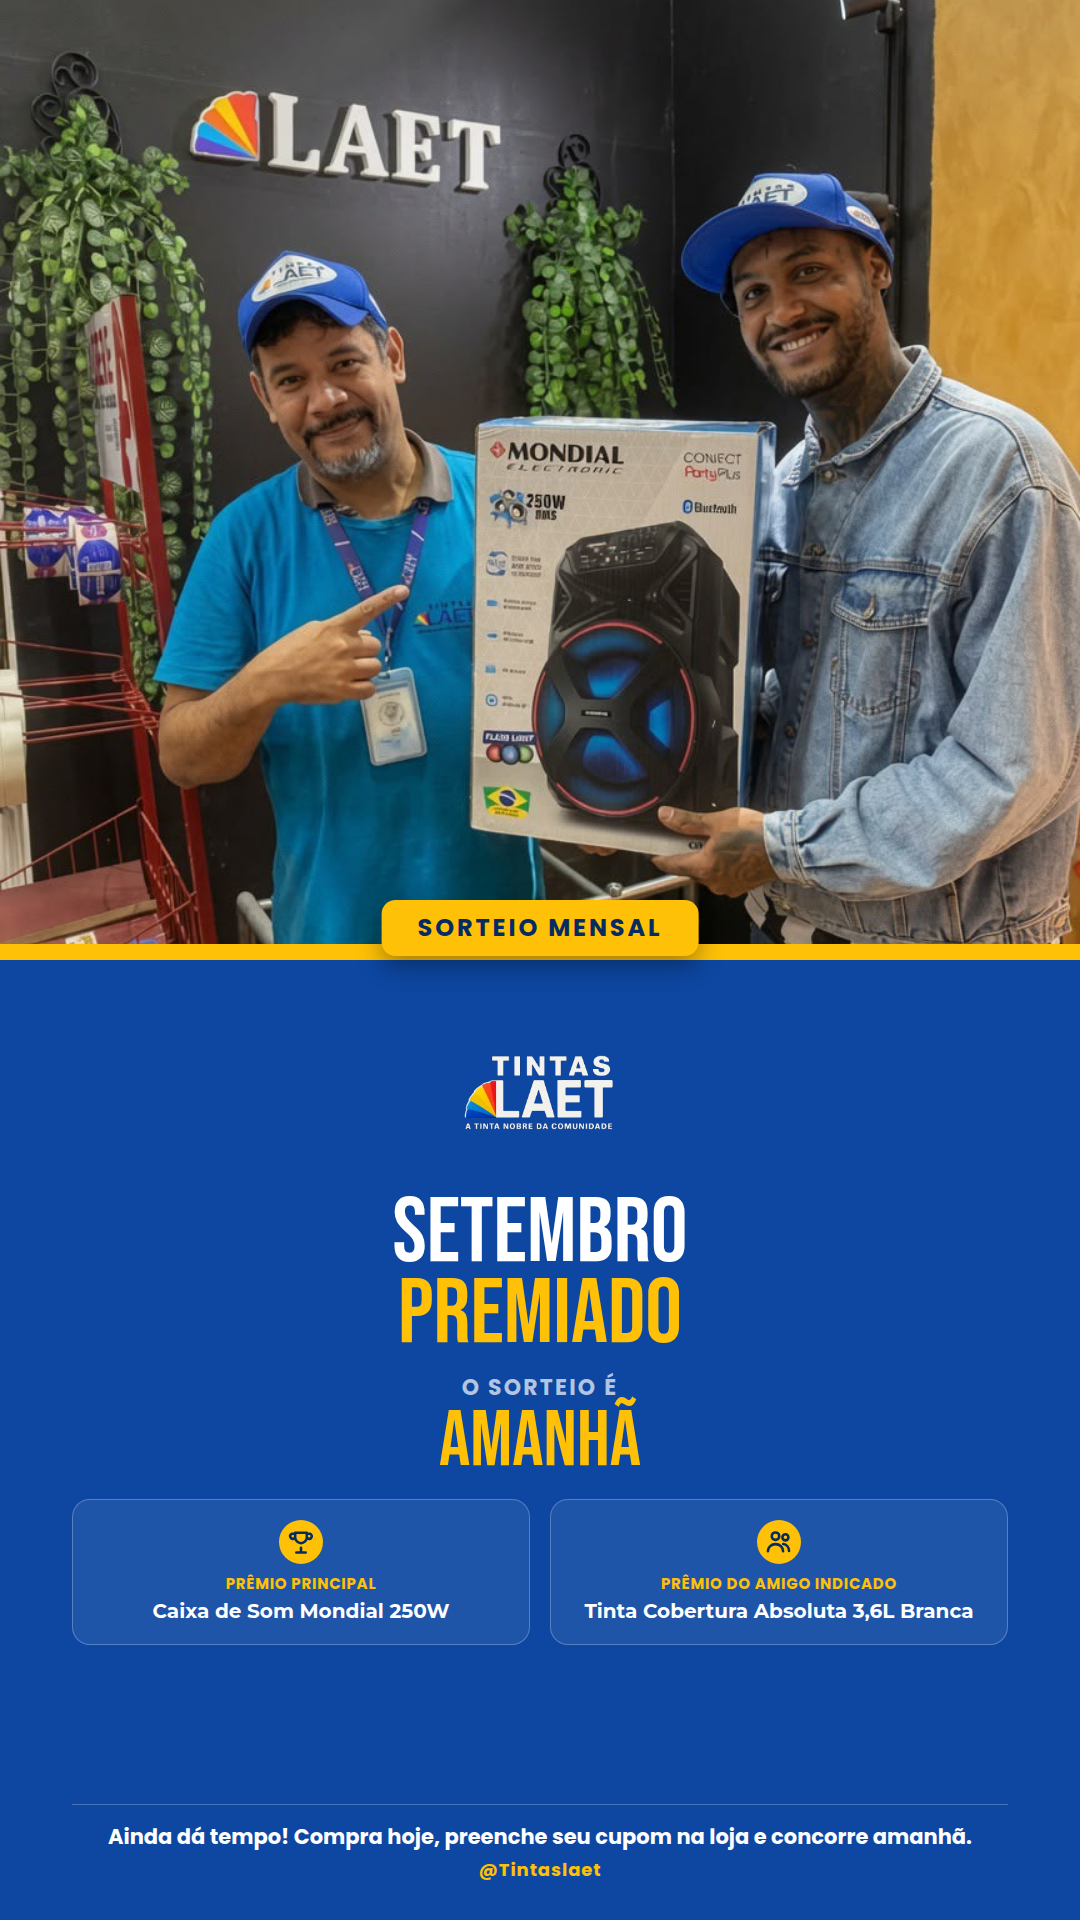
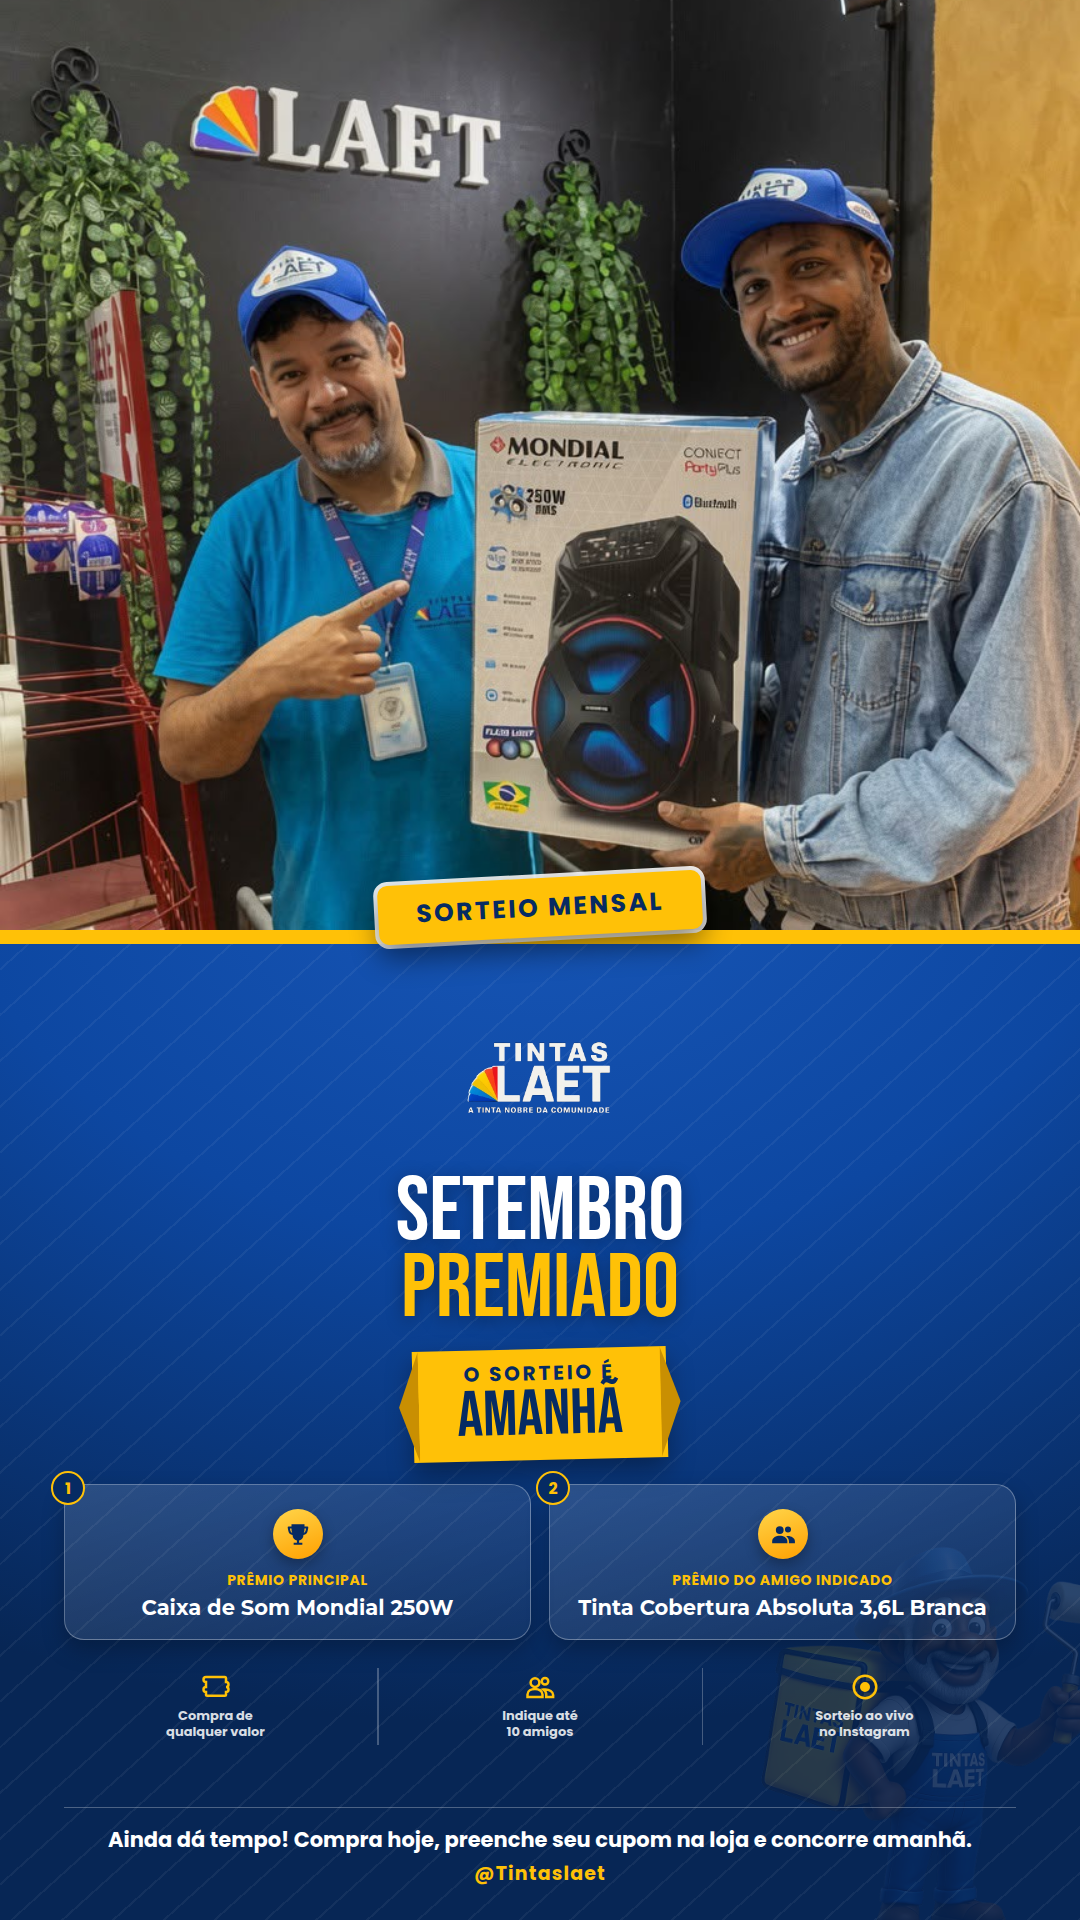
Story "Setembro Premiado": redesign com mais peso visual
Kevin ainda achou vazio e "com cara de html". Adiciona os
recursos que faltavam pra parecer peça de agência: gradiente
radial + textura diagonal sutil no painel (em vez de cor chapada),
fita de urgência recortada pro "sorteio é amanhã", cards de prêmio
numerados com ícone em gradiente e sombra, mascote de fundo bem sutil
pra dar identidade sem competir com o texto, e uma barra de 3 fatos
reais do sorteio (compra de qualquer valor / indique até 10 amigos /
sorteio ao vivo no Instagram — todos do dossiê oficial) preenchendo
o rodapé com informação de verdade em vez de espaço em branco.

Claude-Session: https://claude.ai/code/session_01SY9PCVFHwTAXLNRiFEi1A7

diff --git a/marketing/stories/2026-09/30-setembro-premiado-amanha/story.html b/marketing/stories/2026-09/30-setembro-premiado-amanha/story.html
@@ -16,41 +16,68 @@ body {
 
 .slide { width:1080px; height:1920px; position:relative; overflow:hidden; flex-shrink:0; background:#0D47A1; }
 
-/* Metade de cima: foto inteira (ganhador + balconista), sem corte nem
-   texto por cima — o quadro 1080x960 é quase quadrado, então um cover
-   simples preserva os dois lados da foto e só apara topo/base. */
-.foto-topo { position:absolute; top:0; left:0; right:0; height:960px; overflow:hidden; }
+/* Metade de cima: foto inteira, sem corte nem texto por cima. */
+.foto-topo { position:absolute; top:0; left:0; right:0; height:944px; overflow:hidden; }
 .foto-topo img { width:100%; height:100%; object-fit:cover; object-position:center 32%; display:block; }
 
-/* Costura entre a foto e o painel — faixa dourada + selo, não um corte
-   reto seco (mesma lógica de "nunca ficar plano demais" do design-guide). */
-.costura { position:absolute; top:944px; left:0; right:0; height:16px; background:#FFC107; z-index:5; }
-.selo { position:absolute; top:900px; left:50%; transform:translateX(-50%); z-index:6;
-  background:#FFC107; color:#062B63; font:800 24px/1 'Poppins',sans-serif; letter-spacing:.12em; text-transform:uppercase;
-  padding:16px 36px; border-radius:14px; box-shadow:0 10px 24px rgba(0,0,0,.35); }
+.costura { position:absolute; top:930px; left:0; right:0; height:14px; background:#FFC107; z-index:5; }
 
-/* Metade de baixo: painel sólido com todo o conteúdo — cheio, não vazio. */
-.painel { position:absolute; top:960px; left:0; right:0; bottom:0; background:#0D47A1; z-index:2;
-  display:flex; flex-direction:column; align-items:center; padding:56px 72px 40px; text-align:center; }
+/* Selo estilo "carimbo" — rotacionado, com sombra forte, mais fita de
+   campanha do que rótulo plano. */
+.selo { position:absolute; top:878px; left:50%; transform:translateX(-50%) rotate(-3deg); z-index:6;
+  background:#FFC107; color:#062B63; font:800 25px/1 'Poppins',sans-serif; letter-spacing:.1em; text-transform:uppercase;
+  padding:17px 38px; border-radius:10px; box-shadow:0 14px 28px rgba(0,0,0,.45), 0 0 0 4px rgba(255,255,255,.9); }
 
-.logo { width:160px; object-fit:contain; margin-bottom:18px; }
+/* Metade de baixo: gradiente (não chapado) + brilho radial + mascote de
+   fundo — dá profundidade em vez de um bloco de cor plano. */
+.painel { position:absolute; top:944px; left:0; right:0; bottom:0; z-index:2; overflow:hidden;
+  background: radial-gradient(120% 90% at 50% -10%, #1857B8 0%, #0D47A1 45%, #072655 100%);
+  display:flex; flex-direction:column; align-items:center; padding:60px 64px 36px; text-align:center; }
 
-.mes { font:400 92px/.88 'Bebas Neue',sans-serif; color:#fff; }
-.premiado { font:400 92px/.88 'Bebas Neue',sans-serif; color:#FFC107; margin-bottom:18px; }
+.painel::before { content:''; position:absolute; inset:0; z-index:0; pointer-events:none;
+  background-image: repeating-linear-gradient(-42deg, rgba(255,255,255,.05) 0 2px, transparent 2px 34px); }
 
-.stat { margin-bottom:22px; }
-.stat .rotulo { font:800 22px/1.3 'Poppins',sans-serif; color:rgba(255,255,255,.7); letter-spacing:.1em; text-transform:uppercase; margin-bottom:4px; }
-.stat .valor { font:400 78px/.9 'Bebas Neue',sans-serif; color:#FFC107; }
+.mascote-fundo { position:absolute; right:-70px; bottom:-30px; width:420px; opacity:.14; z-index:0; pointer-events:none; }
 
-.premios { display:flex; gap:20px; width:100%; margin-bottom:auto; }
-.premio { flex:1; background:rgba(255,255,255,.08); border:1.5px solid rgba(255,255,255,.25); border-radius:18px; padding:20px 16px; display:flex; flex-direction:column; align-items:center; }
-.premio .ico { width:44px; height:44px; border-radius:50%; background:#FFC107; display:flex; align-items:center; justify-content:center; margin-bottom:10px; }
-.premio .rotulo { font:800 15px/1.3 'Poppins',sans-serif; color:#FFC107; letter-spacing:.05em; text-transform:uppercase; margin-bottom:6px; }
-.premio .valor { font:700 20px/1.25 'Montserrat',sans-serif; color:#fff; }
+.conteudo { position:relative; z-index:1; width:100%; display:flex; flex-direction:column; align-items:center; flex:1; }
 
-.rodape { width:100%; padding-top:18px; margin-top:18px; border-top:1.5px solid rgba(255,255,255,.25); }
+.logo { width:154px; object-fit:contain; margin-bottom:16px; }
+
+.mes { font:400 90px/.86 'Bebas Neue',sans-serif; color:#fff; text-shadow:0 4px 18px rgba(0,0,0,.35); }
+.premiado { font:400 90px/.86 'Bebas Neue',sans-serif; color:#FFC107; margin-bottom:20px; text-shadow:0 4px 18px rgba(0,0,0,.35); }
+
+/* Fita de urgência — banner recortado, não texto solto empilhado. */
+.fita-wrap { position:relative; margin-bottom:24px; }
+.fita { background:#FFC107; color:#062B63; padding:14px 44px; transform:rotate(-1.4deg);
+  box-shadow:0 12px 26px rgba(0,0,0,.35); position:relative; }
+.fita::before, .fita::after { content:''; position:absolute; top:0; bottom:0; width:20px; background:#C98F02; }
+.fita::before { left:-14px; clip-path:polygon(100% 0,100% 100%,0 50%); }
+.fita::after { right:-14px; clip-path:polygon(0 0,0 100%,100% 50%); }
+.fita .rotulo { font:800 20px/1 'Poppins',sans-serif; letter-spacing:.14em; text-transform:uppercase; margin-bottom:2px; }
+.fita .valor { font:400 64px/.95 'Bebas Neue',sans-serif; }
+
+.premios { display:flex; gap:18px; width:100%; margin-bottom:22px; }
+.premio { flex:1; position:relative; background:linear-gradient(160deg, rgba(255,255,255,.14), rgba(255,255,255,.04));
+  border:1.5px solid rgba(255,255,255,.3); border-radius:20px; padding:24px 16px 18px;
+  display:flex; flex-direction:column; align-items:center; box-shadow:0 10px 22px rgba(0,0,0,.25); }
+.premio .num { position:absolute; top:-14px; left:-14px; width:34px; height:34px; border-radius:50%;
+  background:#062B63; border:2.5px solid #FFC107; color:#FFC107; font:800 16px/32px 'Poppins',sans-serif; text-align:center; }
+.premio .ico { width:50px; height:50px; border-radius:50%; background:linear-gradient(160deg,#FFD54A,#FFA000);
+  display:flex; align-items:center; justify-content:center; margin-bottom:12px; box-shadow:0 6px 14px rgba(0,0,0,.3); }
+.premio .rotulo { font:800 14px/1.3 'Poppins',sans-serif; color:#FFC107; letter-spacing:.05em; text-transform:uppercase; margin-bottom:6px; }
+.premio .valor { font:700 21px/1.25 'Montserrat',sans-serif; color:#fff; }
+
+/* Barra de fatos reais do sorteio — preenche o rodapé com informação de
+   verdade (do dossiê oficial), não só espaço decorativo. */
+.fatos { display:flex; width:100%; gap:10px; margin-bottom:auto; }
+.fato { flex:1; display:flex; flex-direction:column; align-items:center; gap:6px; padding:10px 6px; }
+.fato .fico { width:30px; height:30px; }
+.fato span { font:700 13px/1.25 'Poppins',sans-serif; color:rgba(255,255,255,.85); }
+.fato-div { width:1.5px; background:rgba(255,255,255,.25); margin:6px 0; }
+
+.rodape { width:100%; padding-top:18px; border-top:1.5px solid rgba(255,255,255,.28); }
 .cta { font:700 21px/1.35 'Poppins',sans-serif; color:#fff; margin-bottom:10px; }
-.handle { font:700 18px/1 'Poppins',sans-serif; color:#FFC107; letter-spacing:.05em; }
+.handle { font:800 19px/1 'Poppins',sans-serif; color:#FFC107; letter-spacing:.06em; }
 
 </style>
 </head>
@@ -65,36 +92,61 @@ body {
   <div class="selo">Sorteio mensal</div>
 
   <div class="painel">
-    <img class="logo" src="../../../../identidade/logotipo branco-remove-bg-io.png" alt="Tintas Laet">
+    <img class="mascote-fundo" src="../../../../identidade/mascote alta qualidade-remove-bg-io.png" alt="">
 
-    <div class="mes">SETEMBRO</div>
-    <div class="premiado">PREMIADO</div>
+    <div class="conteudo">
+      <img class="logo" src="../../../../identidade/logotipo branco-remove-bg-io.png" alt="Tintas Laet">
 
-    <div class="stat">
-      <div class="rotulo">O sorteio é</div>
-      <div class="valor">AMANHÃ</div>
-    </div>
+      <div class="mes">SETEMBRO</div>
+      <div class="premiado">PREMIADO</div>
 
-    <div class="premios">
-      <div class="premio">
-        <div class="ico">
-          <svg width="28" height="28" viewBox="0 0 24 24" fill="none" stroke="#062B63" stroke-width="2.2" stroke-linecap="round" stroke-linejoin="round"><path d="M8 21h8M12 17v4M7 4h10v4a5 5 0 0 1-10 0V4Z"/><path d="M7 5H4a2 2 0 0 0 2 4M17 5h3a2 2 0 0 1-2 4"/></svg>
+      <div class="fita-wrap">
+        <div class="fita">
+          <div class="rotulo">O sorteio é</div>
+          <div class="valor">AMANHÃ</div>
         </div>
-        <div class="rotulo">Prêmio principal</div>
-        <div class="valor">Caixa de Som Mondial 250W</div>
       </div>
-      <div class="premio">
-        <div class="ico">
-          <svg width="28" height="28" viewBox="0 0 24 24" fill="none" stroke="#062B63" stroke-width="2.2" stroke-linecap="round" stroke-linejoin="round"><circle cx="9" cy="7" r="3.2"/><path d="M2.5 20c0-3.6 2.9-6.2 6.5-6.2s6.5 2.6 6.5 6.2"/><circle cx="17.5" cy="8" r="2.6"/><path d="M15.6 13.8c2.9.4 5 2.7 5 5.9"/></svg>
-        </div>
-        <div class="rotulo">Prêmio do amigo indicado</div>
-        <div class="valor">Tinta Cobertura Absoluta 3,6L Branca</div>
-      </div>
-    </div>
 
-    <div class="rodape">
-      <p class="cta">Ainda dá tempo! Compra hoje, preenche seu cupom na loja e concorre amanhã.</p>
-      <span class="handle">@Tintaslaet</span>
+      <div class="premios">
+        <div class="premio">
+          <div class="num">1</div>
+          <div class="ico">
+            <svg width="26" height="26" viewBox="0 0 24 24" fill="#062B63"><path d="M6 3h12v2h2.5a1 1 0 0 1 1 1.2l-.6 3A4.5 4.5 0 0 1 17 12.9V13a5 5 0 0 1-4 4.9V20h3v2H8v-2h3v-2.1A5 5 0 0 1 7 13v-.1a4.5 4.5 0 0 1-3.9-3.7l-.6-3A1 1 0 0 1 3.5 5H6V3Zm0 4H4.6l.4 2A2.5 2.5 0 0 0 6.7 11 8 8 0 0 1 6 7Zm12 0a8 8 0 0 1-.7 4 2.5 2.5 0 0 0 1.7-2l.4-2H18Z"/></svg>
+          </div>
+          <div class="rotulo">Prêmio principal</div>
+          <div class="valor">Caixa de Som Mondial 250W</div>
+        </div>
+        <div class="premio">
+          <div class="num">2</div>
+          <div class="ico">
+            <svg width="26" height="26" viewBox="0 0 24 24" fill="#062B63"><path d="M9 12a3.6 3.6 0 1 0 0-7.2A3.6 3.6 0 0 0 9 12Zm7.6-1.4a2.8 2.8 0 1 0 0-5.6 2.8 2.8 0 0 0 0 5.6ZM9 13.6c-3.3 0-7 1.7-7 5v1.9h14v-1.9c0-3.3-3.7-5-7-5Zm7.6.3c-.5 0-1.1 0-1.7.1 1.6 1.1 2.6 2.7 2.6 4.6v1.9H23v-1.9c0-2.7-3.4-4.7-6.4-4.7Z"/></svg>
+          </div>
+          <div class="rotulo">Prêmio do amigo indicado</div>
+          <div class="valor">Tinta Cobertura Absoluta 3,6L Branca</div>
+        </div>
+      </div>
+
+      <div class="fatos">
+        <div class="fato">
+          <svg class="fico" viewBox="0 0 24 24" fill="none" stroke="#FFC107" stroke-width="2"><path d="M20 12a2 2 0 0 1 0 4v2a1 1 0 0 1-1 1H5a1 1 0 0 1-1-1v-2a2 2 0 0 1 0-4v-4a2 2 0 0 1 0-4V5a1 1 0 0 1 1-1h14a1 1 0 0 1 1 1v3a2 2 0 0 1 0 4v0Z"/></svg>
+          <span>Compra de<br>qualquer valor</span>
+        </div>
+        <div class="fato-div"></div>
+        <div class="fato">
+          <svg class="fico" viewBox="0 0 24 24" fill="none" stroke="#FFC107" stroke-width="2"><path d="M8 12a3.5 3.5 0 1 0 0-7 3.5 3.5 0 0 0 0 7Zm8-2a2.6 2.6 0 1 0 0-5.2 2.6 2.6 0 0 0 0 5.2ZM8 13.6c-3 0-6 1.5-6 4.3V20h12v-2.1c0-2.8-3-4.3-6-4.3Zm8.3.3c-.5 0-1 0-1.5.1 1.4 1 2.2 2.4 2.2 4v2h5.5v-1.7c0-2.5-3.1-4.4-6.2-4.4Z"/></svg>
+          <span>Indique até<br>10 amigos</span>
+        </div>
+        <div class="fato-div"></div>
+        <div class="fato">
+          <svg class="fico" viewBox="0 0 24 24" fill="none" stroke="#FFC107" stroke-width="2"><circle cx="12" cy="12" r="9"/><circle cx="12" cy="12" r="3" fill="#FFC107"/></svg>
+          <span>Sorteio ao vivo<br>no Instagram</span>
+        </div>
+      </div>
+
+      <div class="rodape">
+        <p class="cta">Ainda dá tempo! Compra hoje, preenche seu cupom na loja e concorre amanhã.</p>
+        <span class="handle">@Tintaslaet</span>
+      </div>
     </div>
   </div>
 </div>
